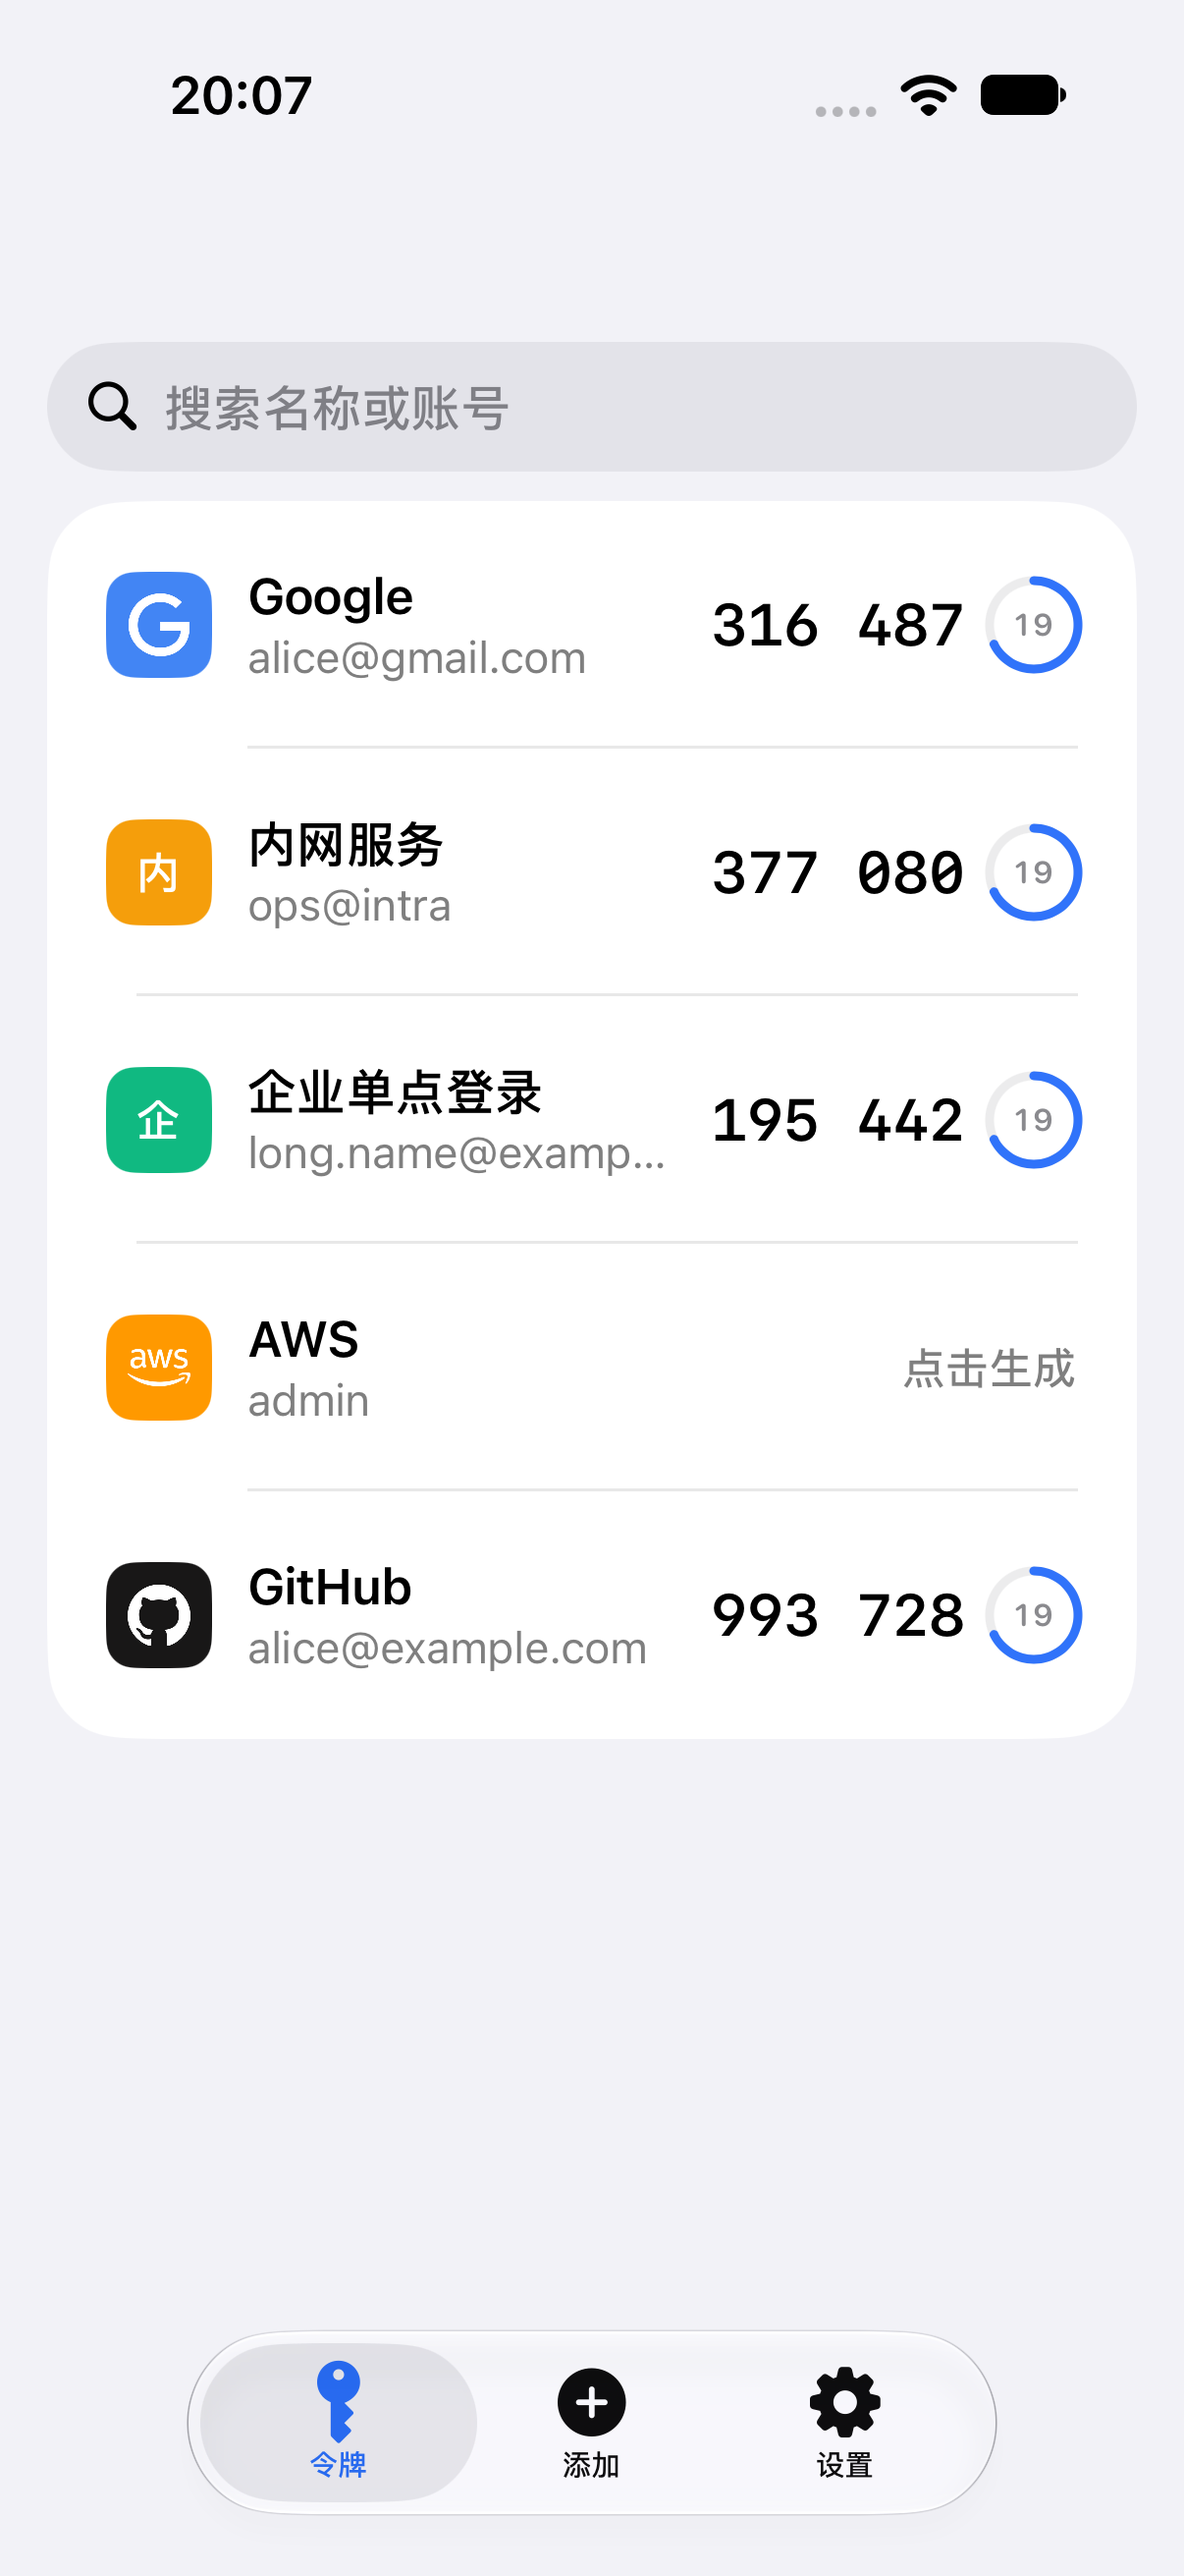
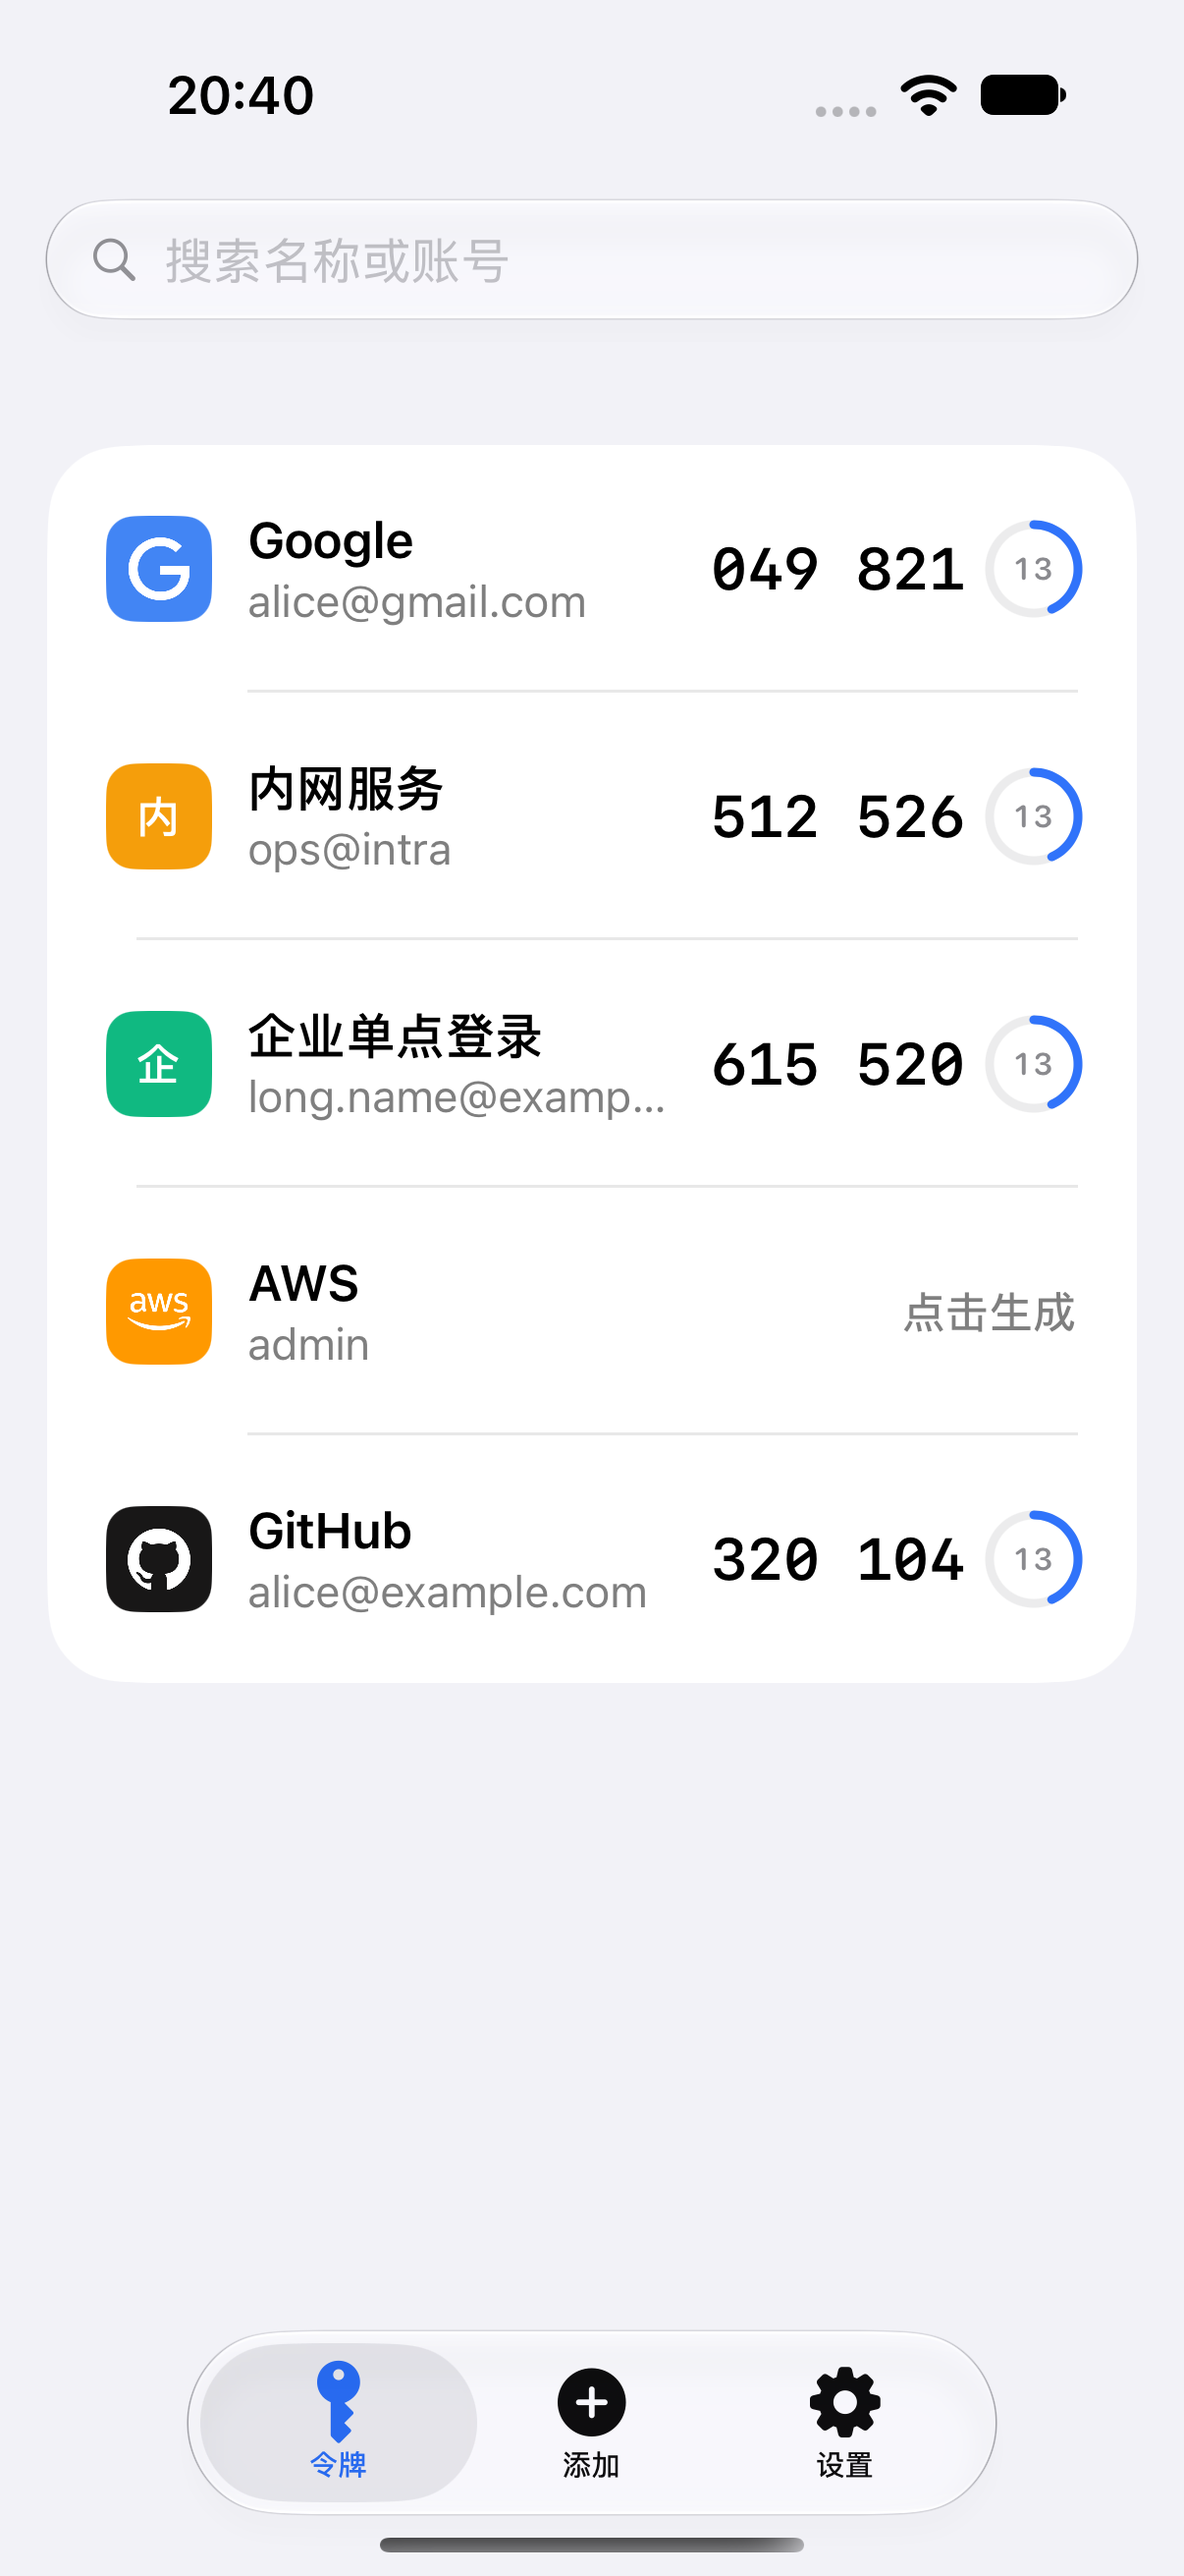
Keep search field visible with Liquid Glass styling; add search UI test

diff --git a/OTP/Features/Tokens/TokenListView.swift b/OTP/Features/Tokens/TokenListView.swift
@@ -9,61 +9,72 @@ struct TokenListView: View {
     @State private var qrToken: OTPToken?
 
     var body: some View {
-        NavigationStack {
-            Group {
-                if model.tokens.isEmpty {
-                    emptyState
-                } else {
-                    tokenList
-                }
+        VStack(spacing: 0) {
+            if !model.tokens.isEmpty {
+                SearchField(text: $model.searchText)
+                    .padding(.horizontal, 16)
+                    .padding(.top, 6)
+                    .padding(.bottom, 8)
             }
-            .navigationTitle("")
-            .navigationBarTitleDisplayMode(.inline)
-            .sheet(item: $editingToken) { token in
-                TokenEditorView(model: model, token: token)
+
+            content
+        }
+        .background(Color(.systemGroupedBackground))
+        .sheet(item: $editingToken) { token in
+            TokenEditorView(model: model, token: token)
+        }
+        .sheet(item: $qrToken) { token in
+            QRCodeView(token: token)
+        }
+        .confirmationDialog(
+            "删除这个令牌？",
+            isPresented: Binding(
+                get: { pendingDelete != nil },
+                set: { if !$0 { pendingDelete = nil } }
+            ),
+            titleVisibility: .visible,
+            presenting: pendingDelete
+        ) { token in
+            Button("删除 \(token.displayIssuer)", role: .destructive) {
+                pendingDelete = nil
+                Task { await model.delete(token) }
             }
-            .sheet(item: $qrToken) { token in
-                QRCodeView(token: token)
+            Button("取消", role: .cancel) { pendingDelete = nil }
+        } message: { _ in
+            Text("所有设备都会删除，无法撤销。")
+        }
+        .alert("出错了", isPresented: Binding(
+            get: { model.errorMessage != nil },
+            set: { if !$0 { model.errorMessage = nil } }
+        )) {
+            Button("好", role: .cancel) { model.errorMessage = nil }
+        } message: {
+            Text(model.errorMessage ?? "")
+        }
+        .overlay(alignment: .top) {
+            if let toast = model.toastMessage {
+                Text(toast)
+                    .font(.footnote.weight(.medium))
+                    .padding(.horizontal, 14)
+                    .padding(.vertical, 9)
+                    .background(.regularMaterial, in: Capsule())
+                    .shadow(color: .black.opacity(0.12), radius: 8, y: 2)
+                    .padding(.top, 6)
+                    .transition(.move(edge: .top).combined(with: .opacity))
             }
-            .confirmationDialog(
-                "删除这个令牌？",
-                isPresented: Binding(
-                    get: { pendingDelete != nil },
-                    set: { if !$0 { pendingDelete = nil } }
-                ),
-                titleVisibility: .visible,
-                presenting: pendingDelete
-            ) { token in
-                Button("删除 \(token.displayIssuer)", role: .destructive) {
-                    pendingDelete = nil
-                    Task { await model.delete(token) }
-                }
-                Button("取消", role: .cancel) { pendingDelete = nil }
-            } message: { _ in
-                Text("所有设备都会删除，无法撤销。")
-            }
-            .alert("出错了", isPresented: Binding(
-                get: { model.errorMessage != nil },
-                set: { if !$0 { model.errorMessage = nil } }
-            )) {
-                Button("好", role: .cancel) { model.errorMessage = nil }
-            } message: {
-                Text(model.errorMessage ?? "")
-            }
-            .overlay(alignment: .top) {
-                if let toast = model.toastMessage {
-                    Text(toast)
-                        .font(.footnote.weight(.medium))
-                        .padding(.horizontal, 14)
-                        .padding(.vertical, 9)
-                        .background(.regularMaterial, in: Capsule())
-                        .shadow(color: .black.opacity(0.12), radius: 8, y: 2)
-                        .padding(.top, 6)
-                        .transition(.move(edge: .top).combined(with: .opacity))
-                }
-            }
-            .animation(.snappy(duration: 0.25), value: model.toastMessage)
-            .sensoryFeedback(.success, trigger: model.copySignal)
+        }
+        .animation(.snappy(duration: 0.25), value: model.toastMessage)
+        .sensoryFeedback(.success, trigger: model.copySignal)
+    }
+
+    @ViewBuilder
+    private var content: some View {
+        if model.tokens.isEmpty {
+            emptyState
+        } else if model.filteredTokens.isEmpty {
+            noResultsState
+        } else {
+            tokenList
         }
     }
 
@@ -129,11 +140,29 @@ struct TokenListView: View {
             }
         }
         .listStyle(.insetGrouped)
-        .searchable(text: $model.searchText, prompt: "搜索名称或账号")
+        .scrollDismissesKeyboard(.immediately)
         .refreshable { await model.refresh() }
     }
 
-    // MARK: - Empty state
+    // MARK: - States
+
+    private var noResultsState: some View {
+        VStack(spacing: 10) {
+            Spacer()
+            Image(systemName: "magnifyingglass")
+                .font(.system(size: 34))
+                .foregroundStyle(.tertiary)
+            Text("没有找到令牌")
+                .font(.headline)
+            Button("清除搜索") {
+                model.searchText = ""
+            }
+            .buttonStyle(.bordered)
+            Spacer()
+            Spacer()
+        }
+        .frame(maxWidth: .infinity)
+    }
 
     private var emptyState: some View {
         VStack(spacing: 14) {

diff --git a/OTP/DesignSystem/SearchField.swift b/OTP/DesignSystem/SearchField.swift
@@ -1,0 +1,59 @@
+import SwiftUI
+
+/// Always-visible search field used above the token list.
+/// Uses the system Liquid Glass material on iOS 26+ and a frosted capsule fallback.
+struct SearchField: View {
+    @Binding var text: String
+    @FocusState private var isFocused: Bool
+
+    var body: some View {
+        fieldContent
+            .modifier(SearchGlassBackground())
+    }
+
+    private var fieldContent: some View {
+        HStack(spacing: 8) {
+            Image(systemName: "magnifyingglass")
+                .font(.subheadline)
+                .foregroundStyle(.secondary)
+
+            TextField("搜索名称或账号", text: $text)
+                .focused($isFocused)
+                .textInputAutocapitalization(.never)
+                .autocorrectionDisabled()
+                .submitLabel(.done)
+                .accessibilityIdentifier("search.field")
+
+            if !text.isEmpty {
+                Button {
+                    text = ""
+                    isFocused = true
+                } label: {
+                    Image(systemName: "xmark.circle.fill")
+                        .foregroundStyle(.tertiary)
+                }
+                .buttonStyle(.plain)
+                .accessibilityLabel("清除搜索")
+            }
+        }
+        .padding(.horizontal, 14)
+        .padding(.vertical, 9)
+        .contentShape(Capsule())
+        .onTapGesture { isFocused = true }
+    }
+}
+
+private struct SearchGlassBackground: ViewModifier {
+    func body(content: Content) -> some View {
+        if #available(iOS 26.0, *) {
+            content.glassEffect(.regular.interactive(), in: Capsule())
+        } else {
+            content
+                .background(.regularMaterial, in: Capsule())
+                .overlay(
+                    Capsule()
+                        .stroke(Color.primary.opacity(0.08), lineWidth: 0.5)
+                )
+        }
+    }
+}

diff --git a/OTPUITests/AddTokenUITests.swift b/OTPUITests/AddTokenUITests.swift
@@ -53,6 +53,27 @@ final class AddTokenUITests: XCTestCase {
         XCTAssertTrue(app.descendants(matching: .any)["token.row"].firstMatch.label.contains("GitHub"))
     }
 
+    func testSearchFiltersTokens() throws {
+        let service = "com.redcarl.otp.uitest." + UUID().uuidString
+        let app = XCUIApplication()
+        app.launchArguments = ["-uiTestService", service, "-seedDemo"]
+        app.launch()
+
+        let rows = app.descendants(matching: .any).matching(identifier: "token.row")
+        XCTAssertTrue(rows.firstMatch.waitForExistence(timeout: 25))
+
+        let field = app.textFields["search.field"]
+        XCTAssertTrue(field.waitForExistence(timeout: 5), "search field should be visible without tapping")
+        field.tap()
+        field.typeText("GitHub")
+
+        XCTAssertTrue(rows.element(boundBy: 1).waitForNonExistence(timeout: 5))
+        XCTAssertTrue(rows.firstMatch.label.contains("GitHub"))
+
+        app.buttons["清除搜索"].tap()
+        XCTAssertTrue(rows.element(boundBy: 1).waitForExistence(timeout: 5))
+    }
+
     func testBackupExportValidation() throws {
         let service = "com.redcarl.otp.uitest." + UUID().uuidString
         let app = XCUIApplication()
